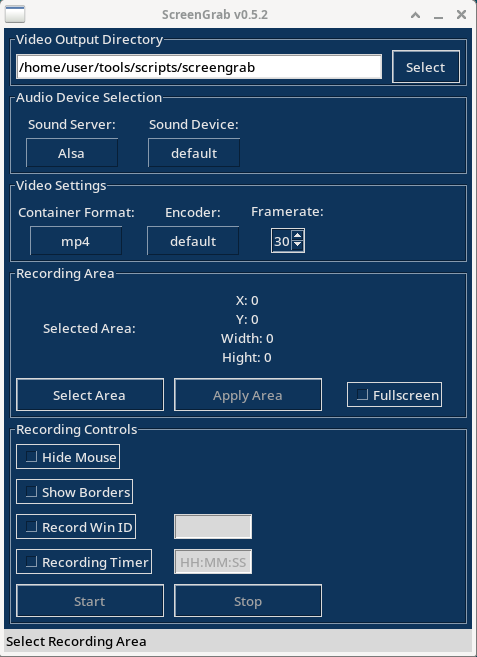
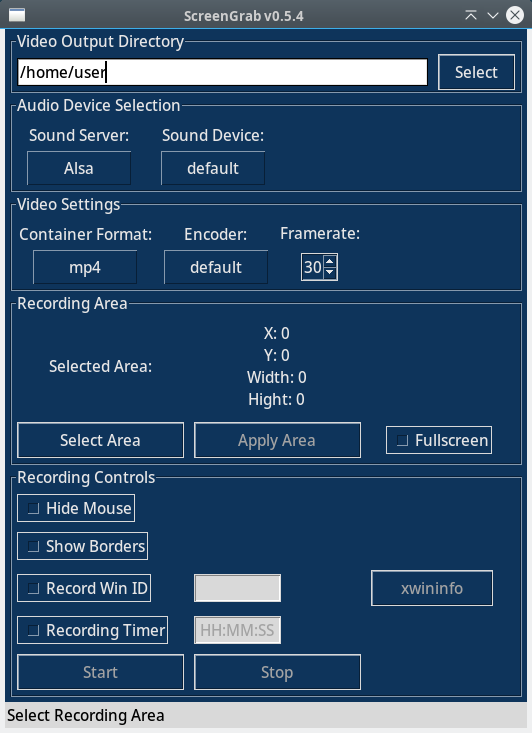
update to version 0.5.4

Changed region(s): [[0.0, 0.0, 1.0, 1.0], [0.6751, 0.761, 0.9392, 0.8219], [0.0881, 0.4871, 0.2935, 0.5175]]

diff --git a/src/screengrab.py b/src/screengrab.py
@@ -1,14 +1,14 @@
 #!/usr/bin/python3
-# ver. 0.5.3
-version = '0.5.3'
+# ver. 0.5.4
+version = '0.5.4'
 
-import threading
 import tkinter as tk
 from tkinter.constants import *
 from tkinter import filedialog
 from datetime import timedelta
-from threading import Thread
 import datetime, time
+from io import StringIO
+import shutil
 import subprocess, sys, os
 
 ffmpeg_bin = 'ffmpeg' # set path to prefered ffmpeg binary, leave it at 'ffmpeg' for default system-wide ffmpeg found via $PATH
@@ -168,7 +168,8 @@ class gui:
 
     def __init__(self):
         self.root = tk.Tk()
-        self.out_path = sys.path[0]
+        self.xwininfo_path = shutil.which('xwininfo')
+        self.out_path = os.getenv("HOME")
         self.format = "mp4"
         self.encoder = "default"
         self.sound_server = "Alsa"
@@ -182,6 +183,20 @@ class gui:
         self.gui_create()
         self.root.protocol("WM_DELETE_WINDOW", self.cleanUp)
         self.root.mainloop()
+
+    def callXwininfo(self):
+        try:
+            res = subprocess.run([self.xwininfo_path], stdout=subprocess.PIPE).stdout.decode('utf-8')
+        except BaseException as e:
+            self.status_bar.configure(text='Error opening xwininfo! Check stderr for more info.')
+            sys.stderr.write(f'Error opening xwininfo!\n')
+            sys.stderr.write(f'Exception:\n{e}\n')
+            return
+        lines = StringIO(res)
+        for line in lines:
+            if "Window id:" in line:
+                self.winid_entry.delete(0, tk.END)
+                self.winid_entry.insert(0, line.split()[3])
 
     def createSelectionWindow(self):
         self.floater = FloatingWindow(self.selectionArea)
@@ -210,7 +225,10 @@ class gui:
         path = self.input_variable.get()
         rate = self.framerate_spinbox.get()
         self.recorder_options['time'] = self.timer_var.get()
-        self.recorder_options['winid'] = self.winid_var.get()
+        if self.winidtoggle_var.get() == 1:
+            self.recorder_options['winid'] = self.winid_var.get()
+        else:
+            self.recorder_options['winid'] = ''
         self.recorder = Actions(self.selectionArea, path, self.format, self.encoder, rate, self.recorder_options, self.sound_server, self.sound_device)
         if self.recorder.success:
             self.expect_recording = True
@@ -275,7 +293,7 @@ class gui:
                 self.button1.config(state=NORMAL)
 
     def outputPathSelection(self):
-        self.out_path = filedialog.askdirectory()
+        self.out_path = filedialog.askdirectory(title="Select Output Directory", initialdir=self.out_path)
         self.path_entry.delete(0,END)
         self.path_entry.insert(END, self.out_path)
 
@@ -346,11 +364,14 @@ class gui:
             self.winid_entry.config(state=NORMAL)
             self.button2.config(state=NORMAL)
             self.button1.config(state=DISABLED)
+            if self.xwininfo_path != None: self.button_call_xwininfo.config(state=NORMAL)
             self.fullscreen_toggle.config(state=DISABLED)
             self.recorder_options['record_window'] = True
         else:
+            self.recorder_options['winid'] = ''
             self.winid_entry.config(state=DISABLED)
             self.button1.config(state=NORMAL)
+            self.button_call_xwininfo.config(state=DISABLED)
             self.fullscreen_toggle.config(state=NORMAL)
             self.recorder_options['record_window'] = False
             if self.selectionArea == (0, 0, 0, 0):
@@ -367,6 +388,7 @@ class gui:
         if self.recording():
             self.stopRecording()
         self.root.destroy()
+        sys.exit(0)
 
     def updateStatus(self):
         now = int(time.time())
@@ -525,6 +547,9 @@ class gui:
         self.winid_entry = tk.Entry(self.button_frame, textvariable=self.winid_var, justify=tk.CENTER,  insertofftime=0, width=9)
         self.winid_entry.config(state=DISABLED)
         self.winid_entry.grid(row=2, column=2, sticky=tk.W, padx=5, pady=5)
+
+        self.button_call_xwininfo = tk.Button(self.button_frame, text="xwininfo", width=10, state=DISABLED, command=self.callXwininfo, background=gbc, foreground=txc, activebackground=abc)
+        self.button_call_xwininfo.grid(row=2, column=3, padx=5, pady=5)
 
         #timer
         self.timertoggle_var = tk.IntVar()

diff --git a/README.md b/README.md
@@ -61,6 +61,11 @@ It should run on a 64bit X11 Linux Desktop.
 * no functional updates  
 * ScreenGrab before did not detect an unexpected ffmpeg exit, thats now being anounced  
 * enhanced ffmpeg process handling and monitoring  
+
+### New in Ver. 0.5.4  
+
+* if `xwininfo` is installed and found in $PATH it can be called now from the GUI when selecting 'Record Win ID'  
+* the user's home directory is now preselected as output directory
   
 ## Requirements
 
